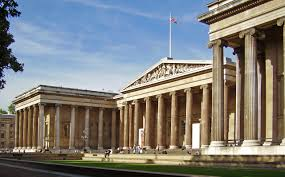
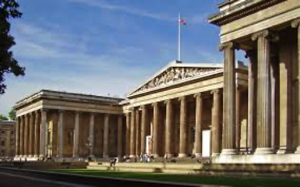
11.09.25 kl1615

diff --git a/CSS/englishpage.css b/CSS/englishpage.css
@@ -1,6 +1,7 @@
 .overskrift {
-    background-image: url("/Bilder/LondonBilder/LONDON.jpg");
-    height: 600px;
+    background-image: url("");
+    background-color: #ccc;
+    height: 800px;
     background-repeat: no-repeat;
     background-attachment: fixed;
     background-size: cover;
@@ -61,8 +62,8 @@
       'main main main left left left'
       'main main main left left left';
     gap: 10px;
-    padding: 20px;
-    height: 400px;
+    padding: 30px;
+    height: 600px;
  }
  
  
@@ -145,57 +146,76 @@
  }
 /* Tabs over med styling*/
 
- /* ---------- Mobiltilpasning ---------- */
- @media (max-width: 768px) {
- 
- 
-    .overskrift {
-        height: 400px; /* redusert høyde */
-        background-attachment: scroll; /* bedre ytelse */
-    }
- 
-    .tap {
-      font-size: 18px;       /* litt større skrift på mobil */
-      padding: 16px 24px;    /* mer plass å trykke på */
-    }
- 
-    .grid-container {
-        grid-template-areas:
-            'main'
-            'left';
-        grid-template-columns: 1fr;
-        height: auto;
-    }
- 
- 
-    .item1, .item2 {
-        font-size: 1em;
-        padding: 15px;
-    }
- 
- 
-    .centered {
-        font-size: 40px;
-        top: 25%;
-    }
- 
- 
-    .centered-lower {
-        font-size: 16px;
-        top: 38%;
-    }
- 
-    .high {
-      position: absolute;
-      top: 90%;
-      left: 35%;
-      transform: translate(-50%, -50%);
+/* --- MOBILTILPASNING --- */
+@media (max-width: 768px) {
+   /* Header */
+   .overskrift {
+     height: auto;              /* Dynamisk høyde i stedet for 800px */
+     padding: 60px 20px;        /* Mer luft rundt tekst */
+     background-attachment: scroll; /* Fixed kan bli rart på mobil */
    }
  
-    h1 {
-        font-size: 32px;
-    }
+   .centered {
+     position: static;          /* Fjerner absolute posisjon */
+     transform: none;
+     font-size: 2rem;           /* Skalerer ned */
+     text-align: center;
+     margin-bottom: 10px;
+   }
+ 
+   .centered-lower {
+     position: static;
+     transform: none;
+     text-align: center;
+     font-size: 1.2rem;
+     margin-bottom: 20px;
+   }
+ 
+   .low {
+     position: static;
+     transform: none;
+     text-align: center;
+     font-size: 0.9rem;
+     margin-top: 15px;
+   }
+ 
+   /* Grid-container: fra 2 kolonner -> 1 kolonne */
+   .grid-container {
+     grid-template-areas:
+       'main'
+       'left';
+     grid-template-columns: 1fr;
+     height: auto;              /* Fjerner fast høyde */
+     padding: 10px;
+   }
+ 
+   .item1, .item2 {
+     padding: 10px;
+     font-size: 1rem;
+   }
+ 
+   .item1 img, .item2 img {
+     height: auto;              /* Lar høyden tilpasses innhold */
+   }
+ 
+   /* Tabs: stable på mobil */
+   .tab {
+     display: flex;
+     flex-direction: column;
+   }
+ 
+   .tab button {
+     font-size: 18px;
+     padding: 12px;
+     text-align: center;
+     width: 100%;
+   }
+ 
+   /* Footer/underside */
+   .underside {
+     height: auto;
+     padding: 20px;
+     text-align: center;
+   }
  }
- 
- 
  

diff --git a/HTML/englishpage.html b/HTML/englishpage.html
@@ -12,7 +12,7 @@
        <h1 class="centered"><div class="highlighted-text">London</div></h1>
        <h2 class="centered-lower">A tourist webpage by Sunniva</h2>
        <br> 
-       <h3 class="low"><div class="highlighted-text">Bilde tatt fra iStock</div></h3>
+       <h3 class="low"><div class="highlighted-text">Photo taken from iStock</div></h3>
    </header>
 
    <!-- Tabs under (med javascript)-->
@@ -31,7 +31,7 @@
     <section class="grid-container">
         <div class="item1">
             <img src="/Bilder/LondonBilder/flagg.webp" alt="flagg">
-            <p class="low"><div class="highlighted-text">Bilde tatt fra wikipedia</div></p>
+            <p class="low"><div class="highlighted-text">Photo taken from wikipedia</div></p>
         </div>
         <div class="item2">
             <h1> Fun Facts</h1>
@@ -47,7 +47,8 @@
    <div id="Historical places" class="tabcontent">
     <section class="grid-container">
         <div class="item1">
-            <img src="../Bilder/test.jpeg" alt="Beskrivelse av bildet">
+            <img src="/Bilder/LondonBilder/British museum.jpeg">
+            <p class="low"><div class="highlighted-text">Photo taken from wikipedia</div></p>
         </div>
         <div class="item2">
             <h1> British Museum</h1>
@@ -55,19 +56,23 @@
         </div>
     </section>
 
+
     <section class="grid-container">
         <div class="item1">
             <h1> Tower of London</h1>
             <p> tekst</p>
         </div>
         <div class="item2">
-            <img src="../Bilder/test.jpeg" alt="Beskrivelse av bildet">
+            <img src="/Bilder/LondonBilder/Tower of london.jpg">
+            <p class="low"><div class="highlighted-text">Photo taken from BBC history magazine</div></p>
         </div>
     </section>
+
   
     <section class="grid-container">
         <div class="item1">
-            <img src="../Bilder/test.jpeg" alt="Beskrivelse av bildet">
+            <img src="/Bilder/LondonBilder/Buckingham palace.webp">
+            <p class="low"><div class="highlighted-text">Photo taken from Bloomberg</div></p>
         </div>
         <div class="item2">
             <h1> Buckingham Palace</h1>
@@ -89,6 +94,9 @@
         </div>
     </section>
 
+    <br>
+    <br>
+
     <section class="grid-container">
         <div class="item1">
             <h1> Tower Brigde</h1>
@@ -98,6 +106,9 @@
             <img src="../Bilder/test.jpeg" alt="Beskrivelse av bildet">
         </div>
     </section>
+
+    <br>
+    <br>
   
     <section class="grid-container">
         <div class="item1">
@@ -185,7 +196,7 @@
 </section>
 
    <section class="underside">
-       <p class="centered-lower">FOTO: PRIVATE BILDER
+       <p class="centered-lower">Sunniva Dahle
            <br>
            @2025
        </p>
